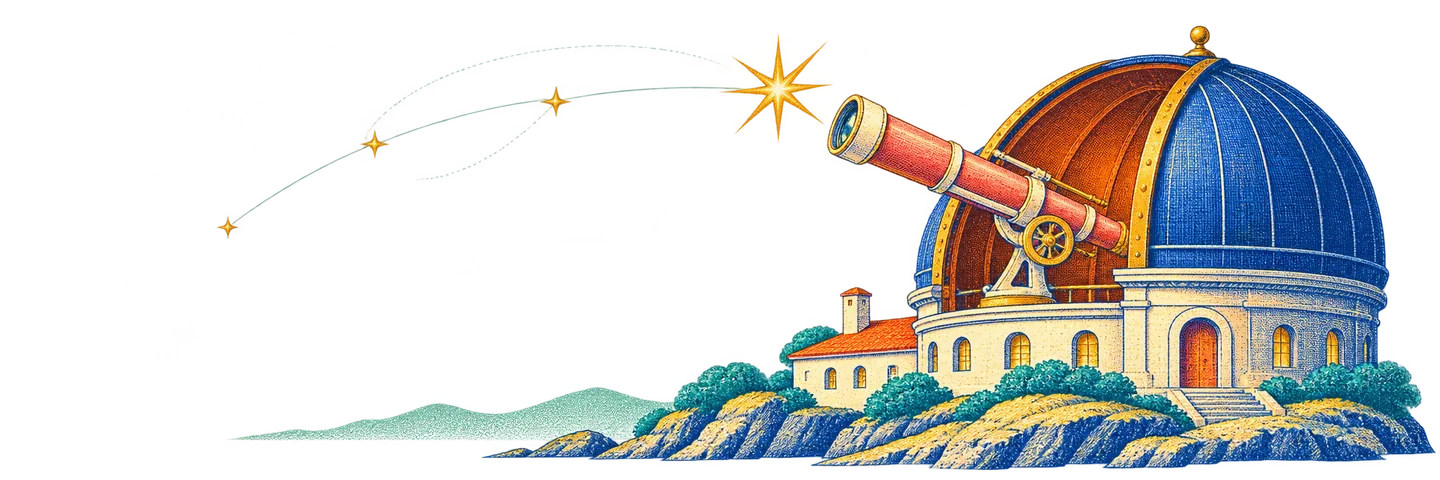
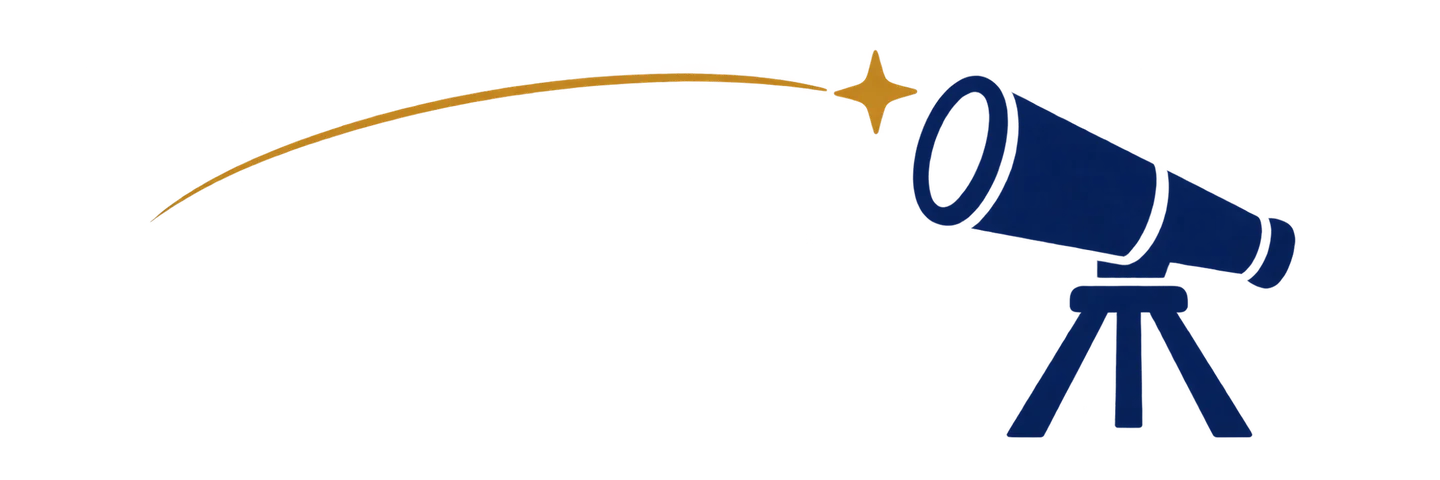
style(trend): 将日报刊头简化为双色观星剪影

diff --git a/polyhouse-web/src/views/TrendView.vue b/polyhouse-web/src/views/TrendView.vue
@@ -248,7 +248,7 @@ watch(
   isolation: isolate;
   overflow: hidden;
   border-radius: 18px;
-  background: linear-gradient(110deg, #deebf2 28%, #d8eeed 73%, #f9e8cb);
+  background: #deebf2;
   min-height: 175px;
   display: flex;
   align-items: center;
@@ -393,7 +393,7 @@ select:focus-visible {
     padding: 16px;
   }
   .observatory {
-    /* 窄屏裁去左侧星轨，保住圆顶和镜筒的比例，给左侧期号留出空间。 */
+    /* 窄屏裁去星轨的远端，把镜筒和目标星一起留在期号右侧。 */
     width: 50%;
     height: min(75%, 25vw);
     object-fit: cover;

diff --git a/docs/dev-log/v1.0-dev.15.md b/docs/dev-log/v1.0-dev.15.md
@@ -9,9 +9,14 @@
 - G4b使用用户本机隐藏输入，真实测试一项通过，DeepSeek两次调用、两条解读发布，本地估算¥0.010228，用户确认控制台显示¥0.01。解读可读且结构通过，其中一条数字与简介口径不同。临时Redis已回收，费用、样本及同月防重记录保留。
 - G4 小样本与[星潮 StarTide](../plans/trend-frontend-design.md) G6 真实浏览器联调已验。开发库已备份并追加 010～014，原屋主已发布 18:09 真实付费日报，15 条中 12 条有解读。模型输出兼容修复已通过离线验证，云端调度与部署待验。
 - 19:07 新版 GitHub API 补全中断，20 条为基础榜单且未发起 AI。通过稳定 ID 沿用旧解读的修复已验证，用户确认本机更新后未再出现整期解读为空。
-- 首页星潮卡面的纸船逐星插画及布局交互已验。[阅读与发布台专项计划](../plans/startide-reader-redesign.md)已完成公开目录、项目详情和返回原条目的本机验收，日报刊头已换为等比显示的专属观星台插画。星潮发布台已统一命名，下一步为其布局与交互改版。
+- 首页星潮卡面的纸船逐星插画及布局交互已验。[阅读与发布台专项计划](../plans/startide-reader-redesign.md)已完成公开目录、项目详情和返回原条目的本机验收，日报刊头已换为等比显示的双色观星插画。星潮发布台已统一命名，下一步为其布局与交互改版。
 - 已核对 `nextlevelbuilder/ui-ux-pro-max-skill`，仍保留正式版 v2.15.0。WSL 服务重启后 Ubuntu 和原 Redis 检查均已恢复。[星潮启动入口](../operations/github-tech-radar.md#本机启动与首次阅读)留有 Docker 备用方式。常规 IDEA 启动默认可读日报和手动更新。
 - 用户确认在现有工程约定内明确两点：新增逻辑按模块职责归属，局部兼容重构须服务于当前任务并验证既有行为。
+
+## 日报刊头简化（2026-11-19）
+
+- 按用户对上版细节过密的反馈，将海岸建筑改为靛蓝望远镜剪影、一条金色弧线和一颗星，刊头使用纯浅蓝底。透明 WebP 保留 3∶1 比例，文件由 191,650 字节降为 40,780 字节。
+- 前端构建、类型检查及静态检查通过。独立 Edge 加载本机日报，在 320、375、620、621、1024、1440px 检查横幅、相邻筛选栏和横向溢出，目检桌面与最窄手机的标题、星和镜筒。
 
 ## 日报刊头专属插画（2026-11-19）
 

diff --git a/docs/plans/startide-reader-redesign.md b/docs/plans/startide-reader-redesign.md
@@ -25,7 +25,7 @@
 
 ## 二、日报目录如何扫读
 
-1. **短报头。** 左侧是「星潮」、所选期号和项目数，右侧采用日报专属的[海岸观星台插画](../../polyhouse-web/src/assets/startide-observatory.webp)。浅蓝底承接金色星轨、群青圆顶和珊瑚色望远镜，榜单数字与正文用靛青。桌面等比展示全景，手机取右侧主体，正文用暖白底。以常见笔记本首屏能看到前两条为设计目标。手机缩小插画并优先保留标题和第一条。
+1. **短报头。** 左侧是「星潮」、所选期号和项目数，右侧采用日报专属的[双色观星插画](../../polyhouse-web/src/assets/startide-observatory.webp)。浅蓝底留白，右侧以靛蓝望远镜和一颗带金色弧线的星构图，榜单数字与正文用靛青。桌面等比展示全景，手机取右侧主体，正文用暖白底。以常见笔记本首屏能看到前两条为设计目标。手机缩小插画并优先保留标题和第一条。
 2. **期次与筛选。** 报头下的一行放「日报日期」「编程语言」，旁边显示采集时间（北京时间）和「GitHub 日榜来源」。复用已有日期游标读取更早期次。筛选只作用于当期，如「Python · 5 / 20 个」，一击恢复全部。同一期不再加第二套搜索、分页或分类导航。
 3. **紧凑的单列排行。** 桌面从左到右为原名次、项目与摘要、本期涨星。项目名最醒目，所属组织弱化但保留；下方最多两行用途，优先显示标明来源的一句话 AI 解读，缺失时用 GitHub 原简介，再缺时保留可进入的名称。语言用文字加小色点。陈旧解读在摘要旁标「沿用旧解读」。手机把语言和涨星放入次行，仓库长名自然换行。完整简介可在详情阅读。
 4. **让图标承担重复信息。** 涨星列共用一次「本期新增」说明，行内以星形图标和 `+2,322` 对齐；手机保留可见的指标说明。屏幕阅读器读作「本期新增 2,322 个星标」。零显示 `+0`，来源缺数用长横线配「数据未知」。星形为统计符号，聚焦和悬停反馈给真正可点的项目链接，避免产生能点赞或收藏的错觉。
